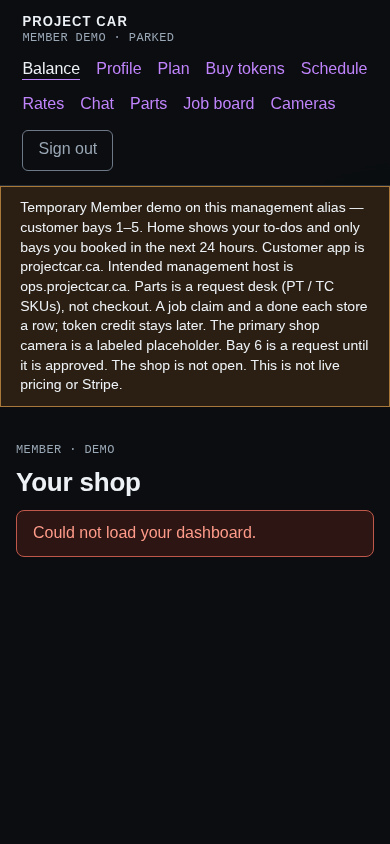
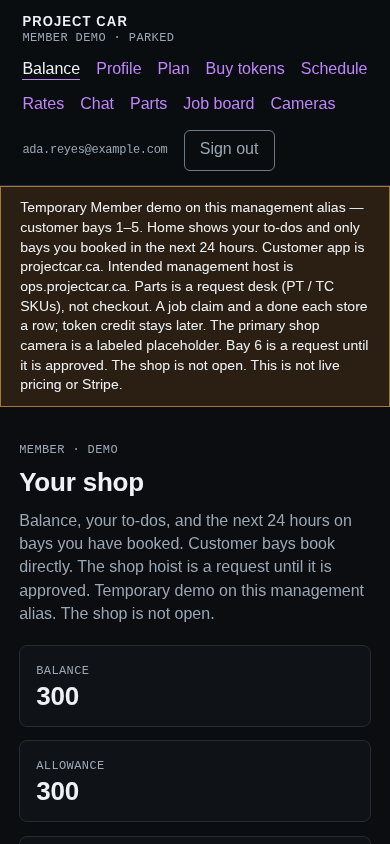
Show the member home balance instead of a locked-database error
The 390 member-home shot was the error banner. The dashboard write
overlapped a parallel read on the visual sqlite file. Load the member
calls one at a time and replace that screenshot with the loaded home.

diff --git a/apps/project-car/web/app/member/page.tsx b/apps/project-car/web/app/member/page.tsx
@@ -25,11 +25,12 @@ export default async function MemberHomePage({
 }) {
   const query = searchParams ? await searchParams : {};
   try {
-    const [me, dash, rates] = await Promise.all([
-      getMemberMe(),
-      getMemberDashboard(),
-      getMemberRates().catch(() => null),
-    ]);
+    // The dashboard settles elapsed no-shows, which writes. A parallel read on
+    // the visual sqlite file returns "database is locked" and this page renders
+    // the error instead of the balance. Load one call at a time.
+    const me = await getMemberMe();
+    const dash = await getMemberDashboard();
+    const rates = await getMemberRates().catch(() => null);
     const open = me.bookings.filter(
       (booking) =>
         booking.status === "pending" || booking.status === "confirmed" || booking.status === "active",
